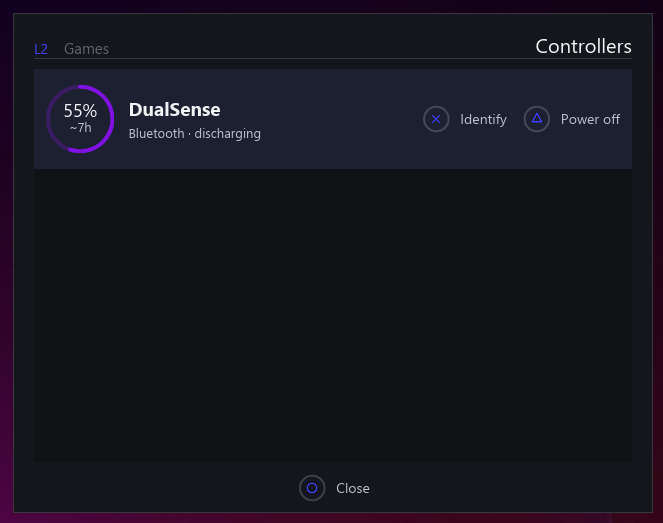
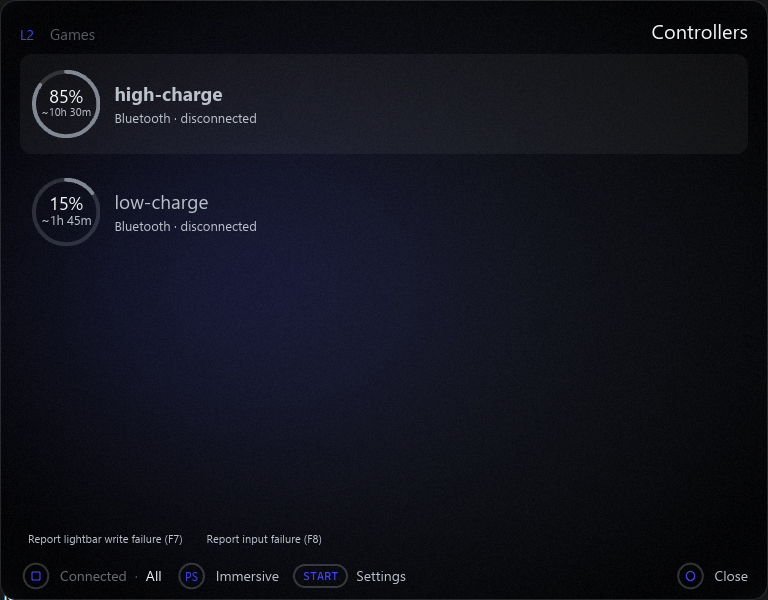
UI refresh 1.7.0: glass theme across popup, Settings, toasts, compact Start
- ui/chrome.rs: per-window transparency + rounded-corner strategy; windows
  clear to transparent on Vulkan so corners show the desktop.
- Ambient shader gains a physical-pixel rounded-rect mask; vignette layer
  dropped for utility windows (ambient already shades the edges).
- Theme: radius/type scales, GLASS_* tokens, glass()/modal_card/nav_item/
  nav_marker/secondary/chip/position_* polish, styled toggle/slider/
  pick_list/scrollbar controls; dead hairline helpers removed.
- Popup: glass row cards, staggered entrance, pin icon replaces the
  Remember checkbox, semantic colors, compact header.
- Settings: 720x520, floating glass sidebar with pill tabs + accent marker,
  grouped cards, toggle rows, sliders, rounded spectrum editor with pill
  handles, styled pick list, per-section header with drag handle.
- Toasts: rounded glass card with shadow and accent rail.
- Compact Start: ambient backdrop + rounded corners, glass row highlight,
  no hairline dividers.
- Start settings panel: same toggle/slider styles, hairlines removed.
- Debug: SDSC_DEBUG_OPEN gains start-controllers / start-edit; snapwin.ps1
  + winshot.sh refresh every README screenshot on the secondary monitor.
- CHANGELOG Unreleased entries for 1.7.0.

Changed region(s): [[0.0, 0.0, 1.0, 1.0], [0.2715, 0.8872, 0.4223, 0.9178]]

diff --git a/src/ui/start/view.rs b/src/ui/start/view.rs
@@ -11,7 +11,7 @@ use crate::ui::percent_ring::{self, POPUP_SIZE};
 use crate::ui::start::icon_cache;
 use crate::ui::start::input::FaceHeld;
 use crate::ui::svg_icon;
-use crate::ui::theme;
+use crate::ui::{chrome, theme};
 use iced::font::Weight;
 use iced::mouse;
 use iced::widget::canvas::{self, Frame, Geometry, Path, Stroke};
@@ -62,7 +62,7 @@ const FACE_GLYPH_SIZE: f32 = 18.0;
 const PRESSED_SCALE: f32 = 1.1;
 /// Pressed grow and armed-color transitions.
 const HINT_ANIM: Duration = Duration::from_millis(crate::ui::motion::FAST_MS);
-const ROW_GAP: f32 = theme::LIST_SEPARATOR_GAP;
+const ROW_GAP: f32 = 11.0;
 const ROW_ACTION_SPACING: f32 = 14.0;
 /// Body width inside outer padding — dual-pane strip unit.
 const PANE_W: f32 = WIDTH - 2.0 * PADDING;
@@ -3239,28 +3239,12 @@ fn compact_chrome<'a>(
     #[cfg(not(debug_assertions))]
     let diag: Element<'_, StartMessage> = space().height(Length::Fixed(0.0)).into();
 
-    theme::framed(
-        column![
-            column![
-                header,
-                container(space())
-                    .width(Fill)
-                    .height(Length::Fixed(1.0))
-                    .style(theme::configure_header_rule),
-            ]
-            .spacing(0)
-            .width(Fill),
-            container(body)
-                .width(Fill)
-                .height(Fill)
-                .style(theme::content),
-            diag,
-            hint,
-        ]
-        .spacing(10)
-        .padding([PAD_Y, PADDING])
-        .width(Fill)
-        .height(Fill),
+    chrome::window(
+        column![header, container(body).width(Fill).height(Fill), diag, hint,]
+            .spacing(10)
+            .padding([PAD_Y, PADDING])
+            .width(Fill)
+            .height(Fill),
     )
 }
 
@@ -3597,7 +3581,7 @@ fn games_list(state: &State) -> Element<'_, StartMessage> {
             .into();
     }
     let items = state.rows.iter().enumerate().fold(
-        column![].spacing(0).width(Fill),
+        column![].spacing(8).width(Fill),
         |col, (index, row)| {
             let selected = index == state.game_selected;
             let running = !state.editing
@@ -3610,11 +3594,6 @@ fn games_list(state: &State) -> Element<'_, StartMessage> {
                     .closing_target
                     .as_ref()
                     .is_some_and(|t| t == &row.target);
-            let col = if index > 0 {
-                col.push(theme::list_separator())
-            } else {
-                col
-            };
             col.push(game_row(
                 index,
                 row,
@@ -3652,18 +3631,13 @@ fn controllers_list<'a>(state: &'a State, spectrum: &BatterySpectrum) -> Element
         .into();
     }
     let items = state.controllers.iter().enumerate().fold(
-        column![].spacing(0).width(Fill),
+        column![].spacing(8).width(Fill),
         |col, (index, row)| {
             let selected = index == state.controller_selected;
             let powering_off = state
                 .powering_off
                 .as_ref()
                 .is_some_and(|s| s == &row.serial);
-            let col = if index > 0 {
-                col.push(theme::list_separator())
-            } else {
-                col
-            };
             col.push(controller_row(
                 index,
                 row,
@@ -4993,7 +4967,7 @@ fn game_row(
         .padding([0, 12])
         .width(Fill)
         .height(Length::Fixed(ROW_HEIGHT))
-        .style(theme::menu_row_surface(selected))
+        .style(theme::glass_row(selected, theme::radius::MD))
         .into()
 }
 
@@ -5104,7 +5078,7 @@ fn controller_row<'a>(
     .padding([0, 12])
     .width(Fill)
     .height(Length::Fixed(CONTROLLER_ROW_HEIGHT))
-    .style(theme::menu_row_surface(selected))
+    .style(theme::glass_row(selected, theme::radius::MD))
     .into()
 }
 

diff --git a/src/ui/theme.rs b/src/ui/theme.rs
@@ -5,8 +5,8 @@
 
 use crate::ui::color::Rgb;
 use iced::theme::Palette;
-use iced::widget::{button, container, space, text_input};
-use iced::{Background, Border, Color, Element, Fill, Length, Theme};
+use iced::widget::{button, container, text_input};
+use iced::{Background, Border, Color, Element, Fill, Theme};
 use std::sync::LazyLock;
 
 // ---------------------------------------------------------------------------
@@ -409,39 +409,6 @@ pub fn configure_header_rule(_theme: &Theme) -> container::Style {
     }
 }
 
-/// Horizontal inset for [`list_separator`] (same idea as the title underline).
-pub const LIST_SEPARATOR_INSET: f32 = 12.0;
-/// Vertical pad around the 1px rule — total gap between rows is [`LIST_SEPARATOR_GAP`].
-const LIST_SEPARATOR_PAD_Y: f32 = 5.0;
-/// Layout height contributed by one inter-row separator (rule + padding).
-pub const LIST_SEPARATOR_GAP: f32 = 1.0 + LIST_SEPARATOR_PAD_Y * 2.0;
-/// List rules sit between [`CONTENT`] and [`LINE`] so they read softer than title chrome.
-const LIST_SEPARATOR_LIFT: f32 = 0.08;
-
-fn list_separator_color() -> Color {
-    lighten(BASE_BG, LIST_SEPARATOR_LIFT)
-}
-
-fn list_separator_rule(_theme: &Theme) -> container::Style {
-    container::Style {
-        background: Some(Background::Color(list_separator_color())),
-        ..container::Style::default()
-    }
-}
-
-/// Inset 1px hairline between list rows (start menu, controllers popup).
-pub fn list_separator<'a, Message: 'a>() -> Element<'a, Message> {
-    container(
-        container(space())
-            .width(Fill)
-            .height(Length::Fixed(1.0))
-            .style(list_separator_rule),
-    )
-    .padding([LIST_SEPARATOR_PAD_Y, LIST_SEPARATOR_INSET])
-    .width(Fill)
-    .into()
-}
-
 /// Solid color chip, e.g. a gradient stop swatch.
 pub fn swatch(color: Color) -> impl Fn(&Theme) -> container::Style {
     move |_theme| container::Style {
@@ -455,15 +422,20 @@ pub fn swatch(color: Color) -> impl Fn(&Theme) -> container::Style {
     }
 }
 
-/// Toast card: flat dark chrome matching popup / Settings.
+/// Toast card: glass over the desktop, rounded, soft shadow.
 pub fn toast_card(_accent: Color) -> impl Fn(&Theme) -> container::Style {
     move |_theme| container::Style {
-        background: Some(Background::Color(BASE_BG)),
+        background: Some(Background::Color(GLASS_FILL)),
         text_color: Some(INK),
         border: Border {
-            color: LINE,
+            color: GLASS_HAIRLINE,
             width: 1.0,
-            radius: 0.0.into(),
+            radius: radius::LG.into(),
+        },
+        shadow: iced::Shadow {
+            color: alpha(Color::BLACK, 0.4),
+            offset: iced::Vector::new(0.0, 6.0),
+            blur_radius: 18.0,
         },
         ..container::Style::default()
     }
@@ -476,7 +448,7 @@ pub fn rail(accent: Color) -> impl Fn(&Theme) -> container::Style {
         border: Border {
             color: Color::TRANSPARENT,
             width: 0.0,
-            radius: 0.0.into(),
+            radius: 2.0.into(),
         },
         ..container::Style::default()
     }

diff --git a/src/ui/start/settings.rs b/src/ui/start/settings.rs
@@ -486,7 +486,7 @@ pub fn focus_row_bounds(
         let mut panel_h = MENU_PANEL_PAD * 2.0;
         for i in 0..AUTO_OPEN_MODES.len() {
             if i > 0 {
-                panel_h += 1.0;
+                panel_h += 4.0;
             }
             panel_h += menu_option_h(ty.body);
         }
@@ -590,7 +590,7 @@ pub fn panel_view<'a>(
     ));
     // Expanded dropdown panel: every option selectable, highlight follows the menu.
     if let Some(highlight) = state.settings.auto_open_menu {
-        let mut options = column![].spacing(0).width(Fill);
+        let mut options = column![].spacing(4).width(Fill);
         for (i, mode) in AUTO_OPEN_MODES.iter().enumerate() {
             if i > 0 {
                 // Spacing separates options; no rule.
@@ -1092,7 +1092,7 @@ mod tests {
         // hairlines between, slotted into the column stacking.
         let expected = MENU_PANEL_PAD * 2.0
             + 3.0 * menu_option_h(TypeScale::for_mode(false).body)
-            + 2.0 * theme::LIST_SEPARATOR_GAP
+            + 2.0 * 4.0 // options column spacing
             + COL_GAP;
         assert!((open_y - closed_y - expected).abs() < 0.5);
     }

diff --git a/src/app/mod.rs b/src/app/mod.rs
@@ -591,6 +591,17 @@ impl App {
                     }
                 }
                 "start" => tasks.push(self.open_start_screen()),
+                "start-controllers" => {
+                    tasks.push(self.open_start_screen());
+                    self.start_state.request_slide(
+                        crate::ui::start::view::StartSlide::Controllers,
+                        Instant::now(),
+                    );
+                }
+                "start-edit" => {
+                    tasks.push(self.open_start_screen());
+                    let _ = self.toggle_start_edit();
+                }
                 "toast" => {
                     ToastMessage::enqueue(
                         &mut self.toast_queue,
@@ -5323,7 +5334,7 @@ impl App {
             visible: false,
             resizable: false,
             decorations: false,
-            transparent: true,
+            transparent: crate::ui::chrome::transparent_windows(),
             level: window::Level::AlwaysOnTop,
             exit_on_close_request: false,
             platform_specific: overlay_platform_specific(),

diff --git a/CHANGELOG.md b/CHANGELOG.md
@@ -7,6 +7,19 @@ and this project adheres to [Semantic Versioning](https://semver.org/spec/v2.0.0
 
 ## [Unreleased]
 
+### Added
+
+- Unified "immersive" visual language across the app: floating glass cards, rounded corners, and the same ambient shader backdrop in the controllers popup, Settings, toasts, and compact Start.
+- Presentation now prefers Vulkan with DX12 as fallback, so transparent rounded windows composite correctly; on DX12-only systems the settings window falls back to a rounded, opaque DWM frame.
+- Toasts are rounded glass cards with a soft shadow and a rounded accent rail.
+- Settings window is larger (720×520) with a floating sidebar, grouped cards, and consistent toggles and sliders.
+- `SDSC_DEBUG_OPEN` (debug builds): open specific windows at boot; quiet mode moves them to the secondary monitor without focus and mutes sounds/haptics.
+
+### Changed
+
+- Lightbar spectrum editor bars and handles are rounded; the saturation square has rounded corners.
+- Remember is now a pin toggle icon in the popup row.
+
 ## [1.6.1] - 2026-10-07
 
 ### Added
